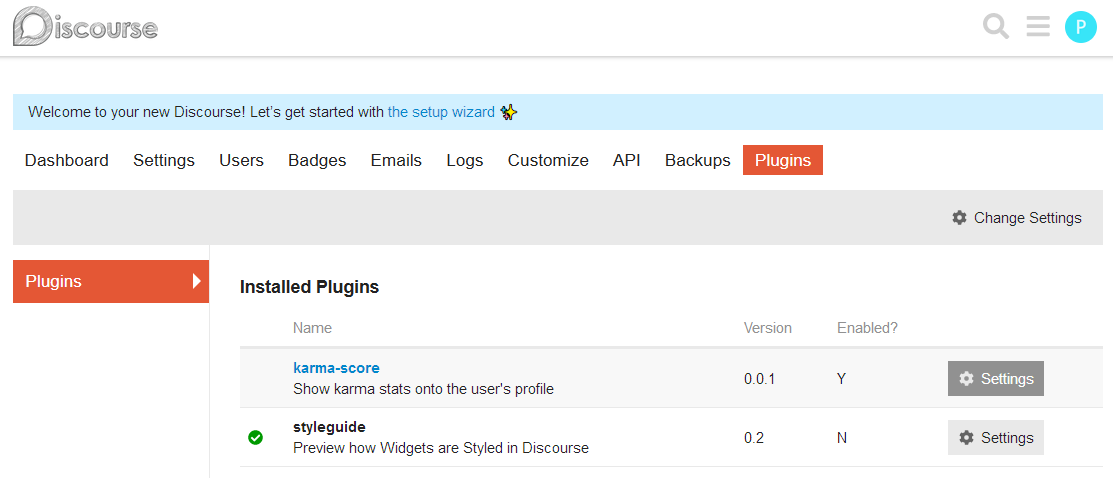
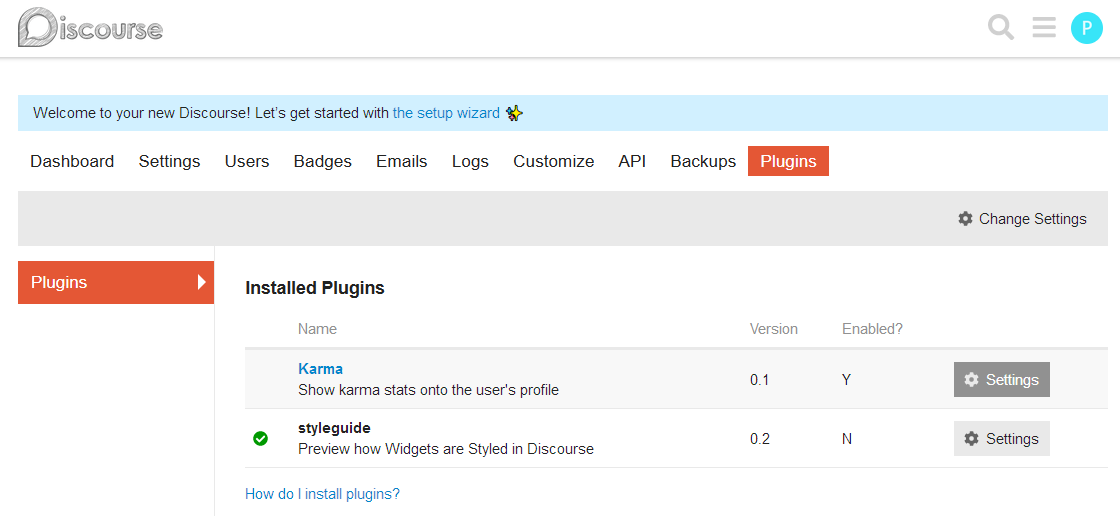
refactor: setting names

diff --git a/plugin.rb b/plugin.rb
@@ -1,13 +1,13 @@
 # frozen_string_literal: true
 
-# name: karma-score
+# name: Karma
 # about: Show karma stats onto the user's profile
 # version: 0.1
-# authors: Show Karma
+# authors: Karma
 # url: TODO
 # required_version: 2.7.0
 
-enabled_site_setting :plugin_name_enabled
+enabled_site_setting :Enable_Karma_plugin
 
 after_initialize do
 end

diff --git a/README.md b/README.md
@@ -4,7 +4,7 @@
 
 __Step 1__: To install the plugin, you can follow the [Install Plugins in Discourse](https://meta.discourse.org/t/install-plugins-in-discourse/19157) official instructions.
 
-__Step 2__: After the installation, the user should go to the plugins page (Admin -> Plugins) and hit Settings under Karma Score plugin. Then, set the Dao Name as registered at [Karma](https://showkarma.xyz).
+__Step 2__: After the installation, the user should go to the plugins page (Admin -> Plugins) and hit Settings under `Karma` plugin. Then, set the Dao Name as registered at [Karma](https://showkarma.xyz).
 ![plugin-page](./docs/assets/plugins.png)
 
 > After these two steps, refresh the page to ensure that the new configurations are loaded and the plugin is ready. The admin can also choose which stats to show by ticking the checkboxes in the settings page (_note that health score works only for Gitcoin Dao_).
